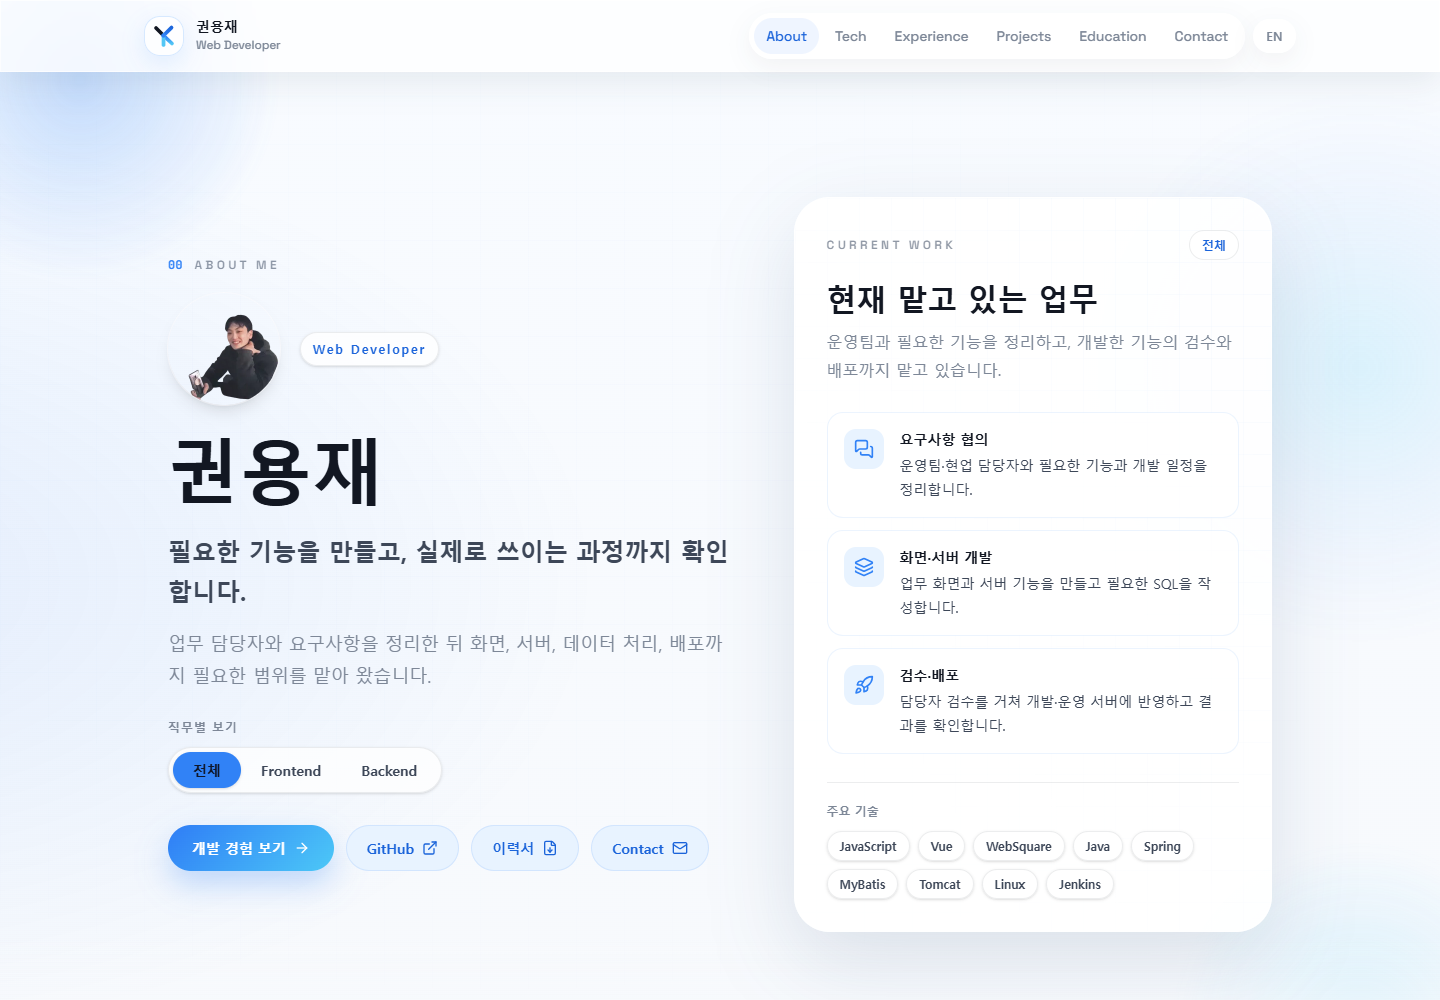
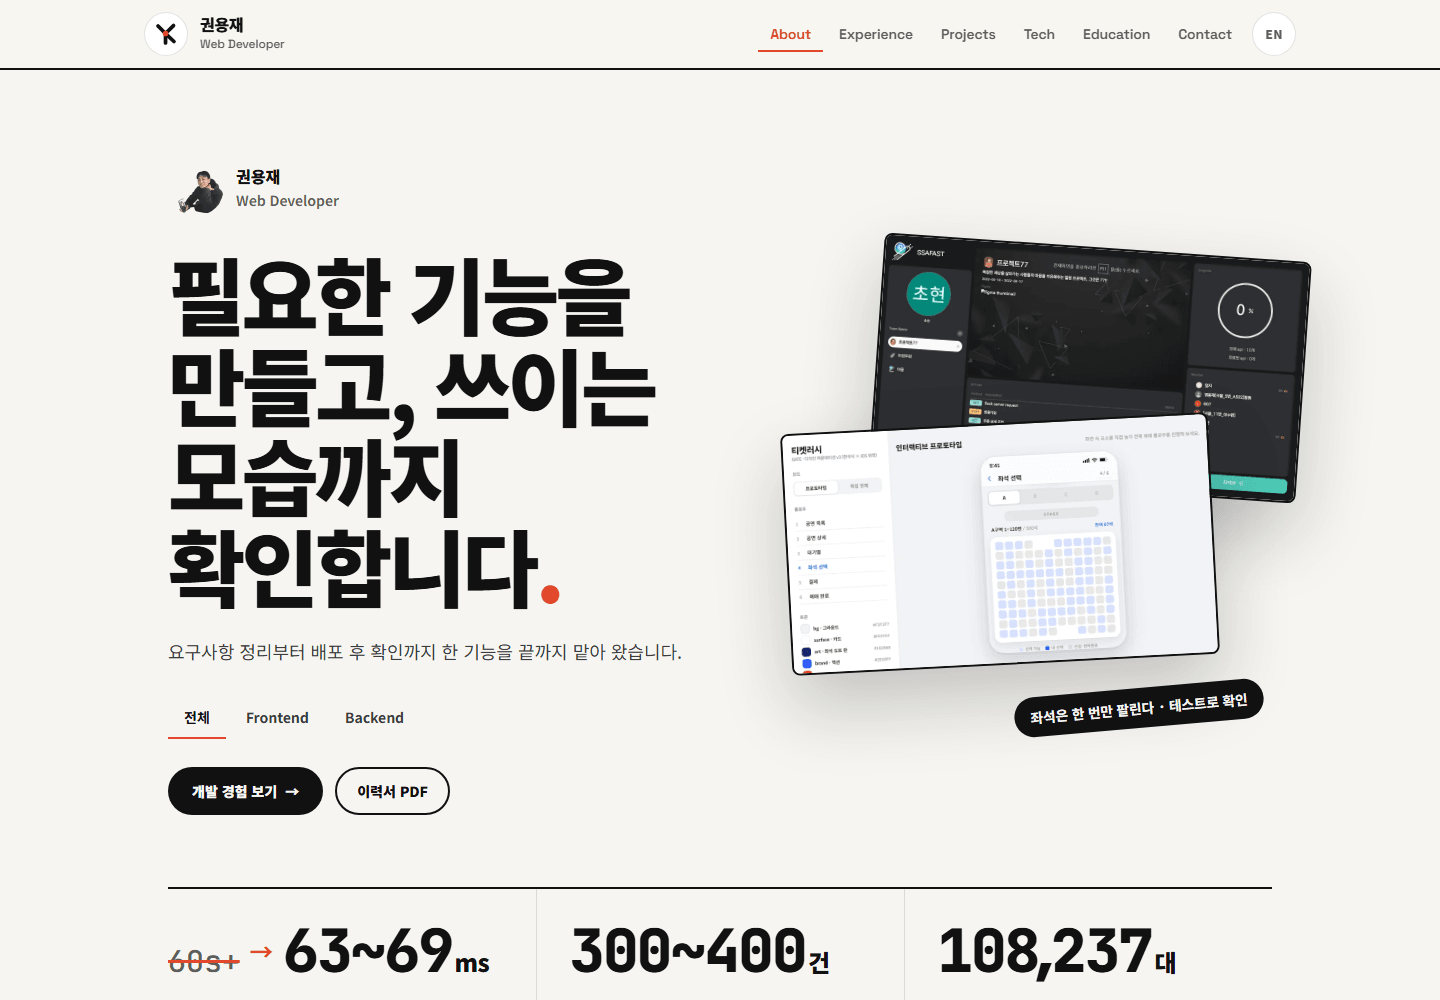
docs: refresh the README; centre the hero arrow and tighten commas
README
- New screenshot of the current first screen (457 KB -> 75 KB PNG).
- Link to the portfolio PDF, a table of the three headline results,
  ONULSAI listed as a private project, and a command table including
  portfolio:pdf and resumes:pdf.
- Replace the broken frameScheduler links (the file no longer exists)
  with the scroll-state composable and its test; add the PDF sources and
  a pointer to docs/ui-kit.md.
- docs/case-studies/pps.md case 2 now carries the same attachment
  evidence as the site case data.

Hero figures
- The small arrow in "60s+ -> 63~69ms" sat on the baseline of the big
  numbers; it is now centred on them (measured: same midline).
- Commas in figures like 108,237 are wrapped and narrowed so the mono
  comma no longer reads as a gap.

diff --git a/src/views/HomeView.vue b/src/views/HomeView.vue
@@ -90,7 +90,7 @@
             <p v-if="item.figure" class="proof-figure font-mono tnum">
               <s v-if="item.figure.before" class="proof-before">{{ item.figure.before }}</s>
               <span v-if="item.figure.before" class="proof-arrow" aria-hidden="true">→</span>
-              <span>{{ item.figure.value }}<small>{{ item.figure.unit }}</small></span>
+              <span><template v-for="(part, index) in item.figure.value.split(',')" :key="index"><span v-if="index" class="proof-comma">,</span>{{ part }}</template><small>{{ item.figure.unit }}</small></span>
             </p>
             <p :class="['text-primary font-black leading-snug', item.figure ? 'mt-4 text-lg' : 'text-2xl md:text-[1.7rem]']">{{ item.title }}</p>
             <p class="text-secondary mt-2 text-sm leading-6">{{ item.detail }}</p>
@@ -294,9 +294,18 @@ const activeProof = computed(() => proofByTrack[activeTrack.value]);
   text-decoration-thickness: 3px;
 }
 
+/* 줄 전체가 기준선 정렬이라, 작은 화살표만 큰 숫자 높이의 가운데로 올린다 */
 .proof-arrow {
+  align-self: center;
   color: var(--fresh-accent);
+  font-family: var(--font-body);
   font-size: 0.4em;
+  font-weight: 700;
   letter-spacing: 0;
+}
+
+/* 모노 글꼴의 쉼표는 한 칸을 다 차지해 숫자가 끊겨 보인다 */
+.proof-comma {
+  margin-inline: -0.18em;
 }
 </style>

diff --git a/README.md b/README.md
@@ -1,41 +1,55 @@
 # 권용재 · 웹 개발자 포트폴리오
 
-실무 개발 경험과 개인·팀 프로젝트를 소개하는 Vue 3 · TypeScript 사이트입니다.
+운영 중인 공공 · B2B 업무 시스템을 만드는 웹 개발자 권용재의 포트폴리오 사이트입니다. Vue 3와 TypeScript로 만들었습니다.
 
-**[사이트 열기 ↗](https://www.yongjaekwon.com/)** · [프론트엔드 이력서](https://www.yongjaekwon.com/resume.pdf) · [백엔드 이력서](https://www.yongjaekwon.com/resume-backend.pdf)
+**[사이트 열기 ↗](https://www.yongjaekwon.com/)** · [포트폴리오 PDF](https://www.yongjaekwon.com/portfolio.pdf) · [프론트엔드 이력서](https://www.yongjaekwon.com/resume.pdf) · [백엔드 이력서](https://www.yongjaekwon.com/resume-backend.pdf)
 
-[![권용재 포트폴리오 실제 화면 — 소개, 직무별 보기와 현재 담당 업무](docs/images/portfolio.png)](https://www.yongjaekwon.com/)
+[![권용재 포트폴리오 첫 화면 — 한 줄 소개, 기울인 프로젝트 화면과 대표 성과 숫자](docs/images/portfolio.png)](https://www.yongjaekwon.com/)
+
+## 대표 성과
+
+| 성과 | 프로젝트 |
+| --- | --- |
+| 60초 안에 끝나지 않던 조회를 **63~69ms**로 줄임 | 교육용 단말 운영 시스템(TSMS) |
+| 첨부파일 **300~400건** 압축을 진행 상태가 보이는 작업으로 바꿈 | B2B 협력사 포털(PPS) |
+| 교육용 단말 **108,237대**에 QR 발급 (전체 111,593대 중) | 교육용 단말 운영 시스템(TSMS) |
 
 ## 둘러보기
 
-프론트엔드·백엔드 보기를 선택하면 각 영역에서 맡은 일을 볼 수 있습니다. 프로젝트를 열면 문제와 제약, 구현 과정과 결과가 이어집니다.
+전체 · 프론트엔드 · 백엔드 중 하나를 고르면 그 영역에서 맡은 일 위주로 보입니다. 프로젝트를 열면 문제, 제약, 판단, 구현, 결과 순서로 이어집니다.
 
-- **[PPS · 협력사 포털](docs/case-studies/pps.md)** — 대량 파일 압축을 비동기 작업으로 분리해 새로고침 후에도 진행 상태를 확인하게 했습니다. [Vue 화면 간 공유 상태 문제](docs/case-studies/pps.md#2-vue-화면-사이에-남던-공통-상태-분리)를 수정한 과정도 담았습니다.
-- **[TSMS · 단말 운영 시스템](docs/case-studies/tsms.md)** — 외부 API 호출 공통화, 등록 전 단말 검증, 현장 점검과 재점검 이력을 연결한 사례입니다.
-- **[인터랙티브 데모](https://www.yongjaekwon.com/#projects)** — 예매, API 명세 작성, 그림 학습, 스터디룸 참여 흐름을 직접 조작할 수 있습니다.
+- **[PPS · 협력사 포털](docs/case-studies/pps.md)**: 대량 첨부파일 압축을 별도 작업으로 떼어 내 새로고침 후에도 진행 상태를 이어서 보게 했습니다. [Vue 화면 사이에 남던 상태로 첨부파일이 잘못 연결될 수 있던 문제](docs/case-studies/pps.md#2-vue-화면-사이에-남던-공통-상태-분리)를 화면과 서버 양쪽에서 막은 과정도 담았습니다.
+- **[TSMS · 단말 운영 시스템](docs/case-studies/tsms.md)**: 통합 뷰 조회 재작성, 외부 API 호출 공통화, 등록 전 단말 검증, 현장 점검과 재점검 이력 관리 사례입니다.
+- **[인터랙티브 데모](https://www.yongjaekwon.com/#projects)**: 예매, API 명세 작성, 그림 학습, 스터디룸 참여 흐름을 직접 눌러 볼 수 있습니다.
 
-실무 사례에는 사내 코드·화면·고객 데이터를 제외한 설명과 축약 코드만 담았습니다. 사이트의 데모는 외부 서버·DB에 연결하지 않는 샘플 시뮬레이션이며, 성능 수치·동시 요청·AI 판정·채팅 결과도 재구성한 예시입니다.
+실무 사례에는 사내 코드 · 화면 · 고객 데이터를 빼고 설명과 축약한 코드만 담았습니다. 사이트의 데모는 외부 서버나 DB에 연결하지 않는 샘플 시뮬레이션이라, 성능 수치 · 동시 요청 · AI 판정 · 채팅 결과도 재구성한 예시입니다.
 
-## 코드 살펴보기
-
-소개 내용과 상세 사례는 [프로젝트 데이터](src/data/portfolio.ko.ts)와 [사례 데이터](src/data/caseStudies.ko.ts)로 분리했습니다. 한국어·영어와 직무별 내용을 같은 화면 컴포넌트로 보여줍니다.
-
-| 살펴볼 부분 | 코드 · 테스트 |
-| --- | --- |
-| 상세 모달을 닫을 때 포커스와 배경 상태 복원 | [모달](src/components/ProjectDetailModal.vue) · [테스트](tests/accessibilityContracts.test.ts) |
-| 필요할 때 데모를 불러오고 종료 시 타이머 정리 | [데모 패널](src/components/demos/ProjectDemoPanel.vue) · [개별 구현](src/components/demos) · [테스트](tests/projectDemos.test.ts) |
-| 연속 메뉴 이동 시 이전 예약 취소 | [섹션 이동](src/utils/sectionNavigation.ts) · [테스트](tests/sectionNavigation.test.ts) |
-| 스크롤 처리에서 프레임당 최신 값 반영 | [스케줄러](src/utils/frameScheduler.ts) · [테스트](tests/frameScheduler.test.ts) |
+URL을 넣을 수 없는 지원서에는 [포트폴리오 PDF](https://www.yongjaekwon.com/portfolio.pdf)(가로 11장)를 첨부합니다. 사이트와 같은 데이터에서 옮겼습니다.
 
 ## 프로젝트 원본
 
 사이트에 소개한 프로젝트의 구현과 테스트는 각 저장소에서 볼 수 있습니다.
 
-- **[ticket-rush](https://github.com/YongjaeKwon/ticket-rush)** — 개인 공연 예매 시스템. 좌석 선점과 예약 확정, 동시 요청과 홀드 만료, 중복 확정 테스트. Next.js 웹을 붙인 2단계를 마쳤고, Outbox 이벤트를 Kafka로 넘기는 3단계를 진행 중입니다.
-- **[ReachRich 공개 데모(quant-lab)](https://github.com/YongjaeKwon/quant-lab)** — 비공개 개인 프로젝트 ReachRich의 저장, 검증, 조회 흐름을 합성 데이터로 옮긴 공개 데모입니다. 재실행 정합성과 오류 처리. ReachRich 본 저장소의 테스트는 파이썬 205개, 웹 96개입니다(2026.08 기준).
-- **[SSAFAST](https://github.com/SSAFAST/ssafast)** — 팀 프로젝트에서 동적 API 명세 입력 폼과 테스트 결과 화면 담당.
-- **[ddoing](https://github.com/GomGom-Team/ddoing)** — 팀 프로젝트에서 Canvas 그림 학습 화면, 타이머와 판정 서버 연동 담당.
-- **[MODAC](https://github.com/YongjaeKwon/MODAC)** — 팀 프로젝트에서 스터디룸 입장, 학습 기록과 채팅 UI 담당.
+- **[ticket-rush](https://github.com/YongjaeKwon/ticket-rush)**: 개인 선착순 예매 시스템입니다. 좌석 선점과 예약 확정, 동시 요청과 선점 만료, 중복 확정 방지를 테스트로 확인합니다. Next.js 웹을 붙인 2단계를 마쳤고, Outbox 이벤트를 Kafka로 넘기는 3단계를 진행하고 있습니다.
+- **오늘사이**: 오프라인 소개팅 운영 서비스로, 비공개 개인 프로젝트라 저장소 링크가 없습니다. 서비스 구조와 동시 신청 결과는 사이트와 PDF에 적었습니다.
+- **[ReachRich 공개 데모(quant-lab)](https://github.com/YongjaeKwon/quant-lab)**: 비공개 개인 프로젝트 ReachRich의 저장 · 검증 · 조회 흐름을 합성 데이터로 옮긴 공개 데모입니다.
+- **[SSAFAST](https://github.com/SSAFAST/ssafast)**: 팀 프로젝트에서 동적 API 명세 입력 폼과 테스트 결과 화면을 맡았습니다.
+- **[ddoing](https://github.com/GomGom-Team/ddoing)**: 팀 프로젝트에서 Canvas 그림 학습 화면, 타이머, 판정 서버 연동을 맡았습니다.
+- **[MODAC](https://github.com/YongjaeKwon/MODAC)**: 팀 프로젝트에서 스터디룸 입장, 학습 기록, 채팅 UI를 맡았습니다.
+
+## 코드 살펴보기
+
+소개 내용과 상세 사례는 [프로젝트 데이터](src/data/portfolio.ko.ts)와 [사례 데이터](src/data/caseStudies.ko.ts)에 따로 두고, 한국어 · 영어와 직무별 내용을 같은 화면 컴포넌트로 보여 줍니다. 영어 데이터는 영어 페이지를 열 때만 불러옵니다.
+
+| 살펴볼 부분 | 코드 · 테스트 |
+| --- | --- |
+| 상세 모달을 닫을 때 포커스와 배경 상태 복원 | [모달](src/components/ProjectDetailModal.vue) · [테스트](tests/accessibilityContracts.test.ts) |
+| 필요할 때 데모를 불러오고 종료 시 타이머 정리 | [데모 패널](src/components/demos/ProjectDemoPanel.vue) · [개별 구현](src/components/demos) · [테스트](tests/projectDemos.test.ts) |
+| 연속 메뉴 이동 시 이전 예약 취소, 동작 줄이기 설정 존중 | [섹션 이동](src/utils/sectionNavigation.ts) · [테스트](tests/sectionNavigation.test.ts) |
+| 스크롤 상태를 한 곳에서 계산해 메뉴와 버튼이 함께 사용 | [스크롤 상태](src/composables/useScrollMetrics.ts) · [계산](src/utils/scrollMetrics.ts) · [테스트](tests/scrollMetrics.test.ts) |
+| 포트폴리오 PDF 생성 | [슬라이드 원본](docs/portfolio-deck.html) · [스크립트](scripts/generate-portfolio-pdf.mjs) · [Chrome 인쇄 공용 모듈](scripts/chrome-pdf.mjs) |
+
+디자인 기준(색 · 글꼴 · 선 · 터치 규칙)은 [docs/ui-kit.md](docs/ui-kit.md)에 정리했습니다.
 
 ## 실행
 
@@ -46,4 +60,9 @@ npm ci
 npm run dev
 ```
 
-`npm test`로 이 포트폴리오의 로직과 UI·콘텐츠 관련 검사를 실행합니다. 전체 브라우저 흐름이나 다른 프로젝트를 검증하는 테스트는 아닙니다. `npm run build`는 타입 검사와 정적 빌드를 수행하고, `npm run preview`로 빌드 결과를 확인할 수 있습니다.
+| 명령 | 하는 일 |
+| --- | --- |
+| `npm test` | 이 포트폴리오의 로직 · 접근성 · 콘텐츠 계약 검사 (다른 프로젝트나 전체 브라우저 흐름은 검증하지 않음) |
+| `npm run build` | 타입 검사와 정적 빌드. `npm run preview`로 결과 확인 |
+| `npm run portfolio:pdf` | `docs/portfolio-deck.html`을 `public/portfolio.pdf`로 인쇄 (Chrome 또는 Edge 필요) |
+| `npm run resumes:pdf` | 이력서 HTML을 `public/resume*.pdf`로 인쇄 |

diff --git a/docs/case-studies/pps.md b/docs/case-studies/pps.md
@@ -25,11 +25,11 @@ if (job.status === "ERROR") showRetryGuide();
 
 ### 2. Vue 화면 사이에 남던 공통 상태 분리
 
-여러 관리 화면이 같은 공통 스크립트의 중첩 객체를 얕게 복사해 사용하면서, 이전 화면의 조회 조건과 표시 값이 다른 화면에 남는 문제가 있었습니다.
+여러 관리 화면이 같은 공통 스크립트의 중첩 객체를 얕게 복사해 사용하면서, 이전 화면의 조회 조건과 표시 값이 다른 화면에 남는 문제가 있었습니다. 새 CE를 등록할 때는 직전에 조회한 CE의 첨부파일 그룹이 화면에 남아, 이전 사람의 첨부파일이 새 데이터에 연결될 수 있었습니다.
 
-공통 API는 유지하되 화면이 생성될 때마다 중첩 객체까지 새로 반환하는 상태 팩토리로 교체했습니다. 화면을 다시 열거나 탭을 전환할 때도 같은 기준으로 초기화하도록 정리했습니다.
+공통 API는 유지하되 화면이 생성될 때마다 중첩 객체까지 새로 반환하는 상태 팩토리로 교체했습니다. 화면을 다시 열거나 탭을 전환할 때도 같은 기준으로 초기화하도록 정리했습니다. 등록, 상세 조회, 조회 실패 때는 첨부 상태를 명시적으로 비우고, 서버에는 이미 다른 CE가 쓰는 첨부파일 그룹이면 저장을 거부하는 검증을 더했습니다.
 
-이제 Vue 인스턴스마다 중첩 상태를 따로 가지므로 이전 화면의 조건이 다른 화면에 섞이지 않습니다.
+이제 Vue 인스턴스마다 중첩 상태를 따로 가지므로 이전 화면의 조건이 다른 화면에 섞이지 않고, 화면에서 놓치더라도 서버가 잘못된 첨부파일 연결을 한 번 더 막습니다.
 
 ```js
 const createInitialState = () => ({
